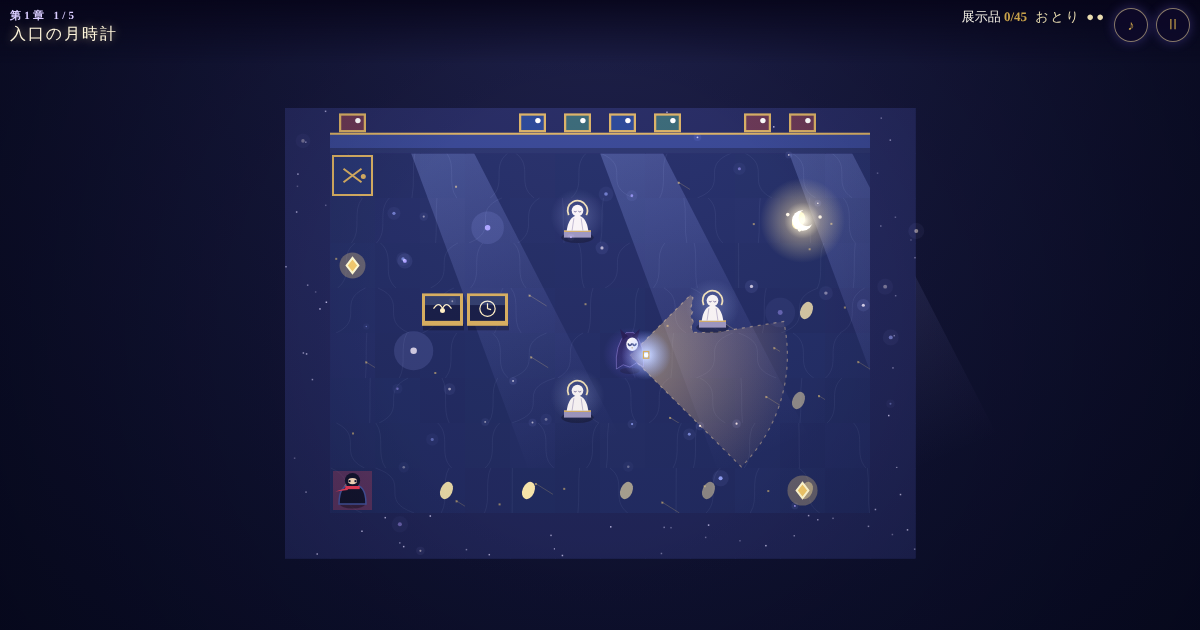
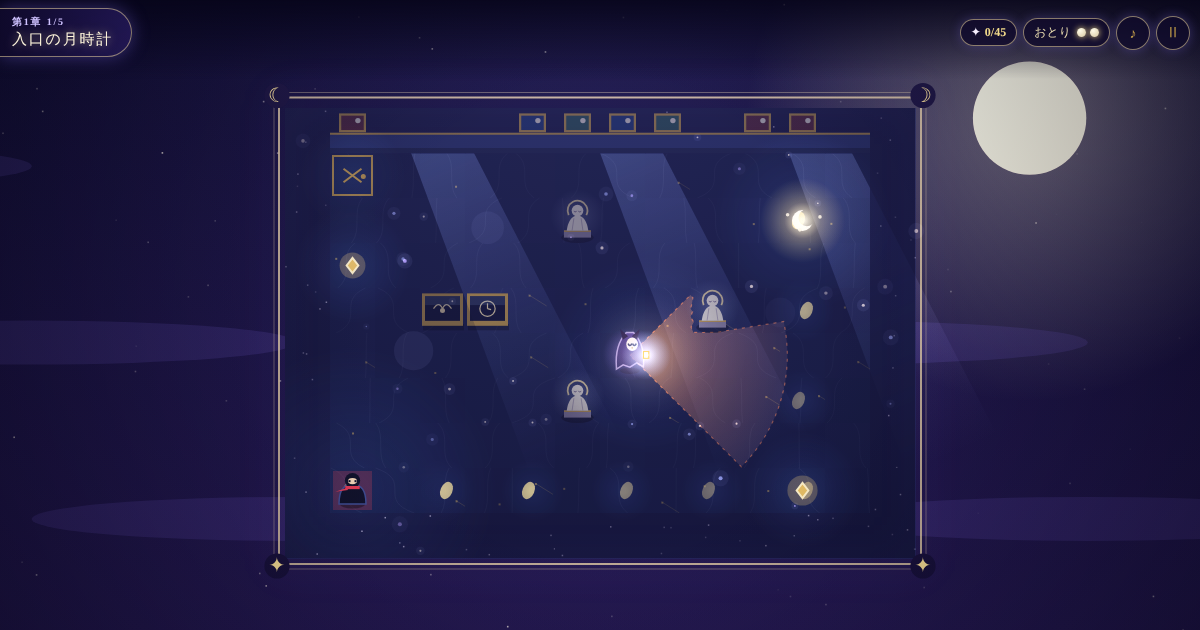
[FIX] 月光美術館と十二の怪盗：プレイ画面を刷新（館の明かり・星空と月・飾り枠・札型の表示）
Claude-Session: https://claude.ai/code/session_01MokQntdd3n6K58QCqVKUx1

diff --git a/site/games/moonlight-heist/game.js b/site/games/moonlight-heist/game.js
@@ -217,7 +217,7 @@ function startRoom(ri, ph) {
   newRun();
   mode = 'play'; paused = false;
   const c = CHAPTERS[roomChapter(ri)];
-  $('hChap').textContent = `${c.sub} ${ri - c.rooms[0] + 1}/5`;
+  $('hChap').textContent = W < 480 ? `☾ ${c.sub}　${ri - c.rooms[0] + 1}/5` : `☾ ${c.sub}・${c.name}　${ri - c.rooms[0] + 1}/5`;
   $('hRoom').textContent = ROOMS[ri].name;
   hideScreen();
   tutorialT = 0;
@@ -236,7 +236,7 @@ function newRun() {
 }
 function updateHud() {
   $('hItems').textContent = `${total() + (run ? run.items.filter((i) => i.got && !(save.rooms[roomIdx]?.opts || []).includes(i.idx) && !(i.kind === 'key' && save.rooms[roomIdx])).length : 0)}/45`;
-  $('hDecoy').textContent = run ? 'おとり ' + '●'.repeat(run.decoys) + '○'.repeat(CFG.decoyCount - run.decoys) : '';
+  $('hDecoy').innerHTML = run ? `<i>おとり</i>${'<em class="st"></em>'.repeat(run.decoys)}${'<em class="st off"></em>'.repeat(CFG.decoyCount - run.decoys)}` : '';
   if (run) $('collectFill').style.height = `${(run.items.filter((i) => i.got).length / run.items.length) * 100}%`;
 }
 let toastTimer = 0;
@@ -366,7 +366,7 @@ function resize() {
   DPR = Math.min(2, devicePixelRatio || 1);
   W = innerWidth; H = innerHeight;
   cv.width = Math.round(W * DPR); cv.height = Math.round(H * DPR);
-  TS = W < 700 ? Math.max(30, Math.min(44, Math.floor(W / 10.5))) : Math.max(36, Math.min(56, Math.floor(Math.min(W / 17, (H - 90) / 12))));
+  TS = W < 700 ? Math.max(32, Math.min(48, Math.floor(Math.min(W / 9.5, (H - 260) / 11)))) : Math.max(36, Math.min(56, Math.floor(Math.min(W / 17, (H - 90) / 12))));
 }
 addEventListener('resize', resize);
 
@@ -575,18 +575,18 @@ function drawGuard(g, t) {
   ctx.fillStyle = 'rgba(0,0,0,0.3)'; ctx.beginPath(); ctx.ellipse(cx, wy(g.y) + s * 0.34, s * 0.22, s * 0.07, 0, 0, 7); ctx.fill();
   // ぼんやりした気配
   const au = ctx.createRadialGradient(cx, cy, s * 0.1, cx, cy, s * 0.6);
-  au.addColorStop(0, chase ? 'rgba(255,80,110,0.28)' : 'rgba(150,120,255,0.25)'); au.addColorStop(1, 'rgba(120,100,255,0)');
+  au.addColorStop(0, chase ? 'rgba(255,80,110,0.4)' : 'rgba(190,160,255,0.42)'); au.addColorStop(1, 'rgba(120,100,255,0)');
   ctx.fillStyle = au; ctx.fillRect(cx - s, cy - s, s * 2, s * 2);
   // 衣（すそがゆらぐ）
   const body = ctx.createLinearGradient(cx, cy - s * 0.45, cx, cy + s * 0.35);
-  body.addColorStop(0, '#2a1f55'); body.addColorStop(1, 'rgba(26,18,60,0.15)');
+  body.addColorStop(0, '#4a3a90'); body.addColorStop(1, 'rgba(40,28,90,0.25)');
   ctx.fillStyle = body; ctx.beginPath();
   ctx.moveTo(cx - s * 0.08, cy - s * 0.48);
   ctx.quadraticCurveTo(cx - s * 0.34, cy - s * 0.2, cx - s * 0.3, cy + s * 0.3);
   for (let k = 0; k <= 4; k++) { const xx = cx - s * 0.3 + k * s * 0.15, yy = cy + s * 0.3 + (k % 2 ? -s * 0.08 : 0) + (rm ? 0 : Math.sin(t * 6 + k + g.x) * s * 0.03); ctx.lineTo(xx, yy); }
   ctx.quadraticCurveTo(cx + s * 0.34, cy - s * 0.2, cx + s * 0.08, cy - s * 0.48);
   ctx.closePath(); ctx.fill();
-  ctx.strokeStyle = 'rgba(190,170,255,0.35)'; ctx.lineWidth = 1; ctx.stroke();
+  ctx.strokeStyle = 'rgba(220,200,255,0.75)'; ctx.lineWidth = 1.5; ctx.stroke();
   // 頭巾の角
   ctx.fillStyle = '#1c1440'; ctx.beginPath(); ctx.moveTo(cx - s * 0.16, cy - s * 0.32); ctx.lineTo(cx - s * 0.22, cy - s * 0.56); ctx.lineTo(cx - s * 0.04, cy - s * 0.4); ctx.fill();
   ctx.beginPath(); ctx.moveTo(cx + s * 0.16, cy - s * 0.32); ctx.lineTo(cx + s * 0.22, cy - s * 0.56); ctx.lineTo(cx + s * 0.04, cy - s * 0.4); ctx.fill();
@@ -647,17 +647,57 @@ function drawLights(room, t) {
 }
 
 let dark = null, dctx = null;
-function drawDarkness(room) {
+// 館の明かり：全体を夜の暗さにして、ルウのまわり・夜守のランタンと視線・かけら・月光だけを照らす
+function drawLighting(room, ms, t) {
   if (!dark || dark.width !== cv.width || dark.height !== cv.height) { dark = document.createElement('canvas'); dark.width = cv.width; dark.height = cv.height; dctx = dark.getContext('2d'); }
   dctx.setTransform(1, 0, 0, 1, 0, 0); dctx.globalCompositeOperation = 'source-over'; dctx.clearRect(0, 0, dark.width, dark.height);
-  dctx.fillStyle = 'rgba(2,4,20,0.72)'; dctx.fillRect(0, 0, dark.width, dark.height);
+  dctx.fillStyle = room.dark ? 'rgba(3,2,16,0.78)' : 'rgba(6,3,24,0.5)'; dctx.fillRect(0, 0, dark.width, dark.height);
   dctx.setTransform(DPR, 0, 0, DPR, 0, 0); dctx.globalCompositeOperation = 'destination-out';
   const hole = (x, y, r, a) => { const g = dctx.createRadialGradient(x, y, r * 0.1, x, y, r); g.addColorStop(0, `rgba(0,0,0,${a})`); g.addColorStop(1, 'rgba(0,0,0,0)'); dctx.fillStyle = g; dctx.beginPath(); dctx.arc(x, y, r, 0, 7); dctx.fill(); };
+  // 窓からの月光の帯
+  if (!room.dark) for (let i = 0; i < 3; i++) {
+    const bx = wx(room.rows[0].length * (0.2 + i * 0.3)), by = wy(1);
+    const g = dctx.createLinearGradient(bx, by, bx + TS * 3, by + TS * 7); g.addColorStop(0, 'rgba(0,0,0,0.55)'); g.addColorStop(1, 'rgba(0,0,0,0)');
+    dctx.fillStyle = g; dctx.beginPath(); dctx.moveTo(bx, by); dctx.lineTo(bx + TS * 1.4, by); dctx.lineTo(bx + TS * 5, by + TS * 7); dctx.lineTo(bx + TS * 2.6, by + TS * 7); dctx.fill();
+  }
   hole(wx(run.p.x), wy(run.p.y), TS * 3.2, 0.95);
-  for (const g of run.guards) hole(wx(g.x), wy(g.y), TS * 2.5, 0.9);
+  for (const g of run.guards) {
+    hole(wx(g.x + g.fx * 0.36), wy(g.y + g.fy * 0.36), TS * 2.2, 0.9);
+    if (save.opt.showView) { const pts = coneRays(g, ms, room); dctx.fillStyle = 'rgba(0,0,0,0.55)'; dctx.beginPath(); pts.forEach(([x, y], k) => (k ? dctx.lineTo(wx(x), wy(y)) : dctx.moveTo(wx(x), wy(y)))); dctx.closePath(); dctx.fill(); }
+  }
   for (const l of room.lights || []) { const lp = L.lightPos(l, run.t); hole(wx(lp.x), wy(lp.y), l.r * TS * 2.2, 1); }
-  for (const it of run.items) if (!it.got) hole(wx(it.x + 0.5), wy(it.y + 0.5), TS * 1.6, 0.8);
-  ctx.setTransform(1, 0, 0, 1, 0, 0); ctx.drawImage(dark, 0, 0); ctx.setTransform(DPR, 0, 0, DPR, 0, 0);
+  for (const it of run.items) if (!it.got) hole(wx(it.x + 0.5), wy(it.y + 0.5), TS * (it.kind === 'key' ? 2 : 1.3), 0.85);
+  const info = L.roomInfo(room);
+  if (info.exit) hole(wx(info.exit[0] + 0.5), wy(info.exit[1] + 0.5), TS * (run.exitOpen ? 2.2 : 1.2), run.exitOpen ? 0.9 : 0.5);
+  if (roomIdx === 0 || room.pedestals) L.hintTrail(room, phase).forEach(([x, y], k) => { if (k % 2 === 0) hole(wx(x + 0.5), wy(y + 0.5), TS * 0.7, 0.6); });
+  ctx.save(); ctx.beginPath(); ctx.rect(wx(0), wy(0), room.rows[0].length * TS, room.rows.length * TS); ctx.clip();
+  ctx.setTransform(1, 0, 0, 1, 0, 0); ctx.drawImage(dark, 0, 0); ctx.restore(); ctx.setTransform(DPR, 0, 0, DPR, 0, 0);
+  // ランタンのあたたかい灯
+  ctx.save(); ctx.globalCompositeOperation = 'lighter';
+  for (const g of run.guards) { const lx = wx(g.x + g.fx * 0.36), ly = wy(g.y + g.fy * 0.36); const gg = ctx.createRadialGradient(lx, ly, 2, lx, ly, TS * 1.6); gg.addColorStop(0, g.mode === 'chase' ? 'rgba(255,80,100,0.35)' : 'rgba(255,200,120,0.28)'); gg.addColorStop(1, 'rgba(0,0,0,0)'); ctx.fillStyle = gg; ctx.fillRect(lx - TS * 2, ly - TS * 2, TS * 4, TS * 4); }
+  ctx.restore(); void t;
+}
+// 部屋の外：星空と月。部屋のふちは金の線と光で縁取る
+function drawPlaySky(room, t) {
+  const g = ctx.createLinearGradient(0, 0, 0, H); g.addColorStop(0, '#0a0828'); g.addColorStop(1, '#1e1446'); ctx.fillStyle = g; ctx.fillRect(0, 0, W, H);
+  const ox = -cam.x * 0.08, oy = -cam.y * 0.08;
+  for (let i = 0; i < 140; i++) { const a = 0.25 + 0.5 * (0.5 + 0.5 * Math.sin(t * 1.3 + i)); ctx.fillStyle = `rgba(255,248,225,${a * hash(i, 4, 3)})`; ctx.fillRect(((hash(i, 1, 3) * W * 1.3 + ox) % (W * 1.3) + W * 1.3) % (W * 1.3) - W * 0.15, ((hash(i, 2, 3) * H * 1.3 + oy) % (H * 1.3) + H * 1.3) % (H * 1.3) - H * 0.15, 1.6, 1.6); }
+  const mx = W * 0.82 + ox * 2, my = H * 0.16 + oy * 2, mr = Math.min(W, H) * 0.09;
+  const mg = ctx.createRadialGradient(mx, my, mr * 0.3, mx, my, mr * 5); mg.addColorStop(0, 'rgba(255,246,215,0.35)'); mg.addColorStop(1, 'rgba(255,246,215,0)'); ctx.fillStyle = mg; ctx.fillRect(mx - mr * 5, my - mr * 5, mr * 10, mr * 10);
+  ctx.fillStyle = '#fbf3da'; ctx.beginPath(); ctx.arc(mx, my, mr, 0, 7); ctx.fill();
+  // 雲
+  ctx.fillStyle = 'rgba(110,90,200,0.18)';
+  for (let i = 0; i < 6; i++) { const x = ((i * 0.22 + t * 0.006) % 1.4 - 0.2) * W, y = H * (0.25 + (i % 3) * 0.28) + oy; ctx.beginPath(); ctx.ellipse(x, y, W * 0.22, H * 0.035, 0, 0, 7); ctx.fill(); }
+  void room;
+}
+function drawRoomFrame(room) {
+  const x0 = wx(0), y0 = wy(0) - TS * 0.1, w = room.rows[0].length * TS, h = room.rows.length * TS + TS * 0.1;
+  ctx.save();
+  ctx.shadowColor = 'rgba(160,140,255,0.6)'; ctx.shadowBlur = 40; ctx.strokeStyle = 'rgba(236,214,160,0.75)'; ctx.lineWidth = 2; ctx.strokeRect(x0 - 6, y0 - 6, w + 12, h + 12);
+  ctx.shadowBlur = 0; ctx.strokeStyle = 'rgba(236,214,160,0.35)'; ctx.lineWidth = 1; ctx.strokeRect(x0 - 11, y0 - 11, w + 22, h + 22);
+  ctx.fillStyle = '#f1d98a'; ctx.font = `${Math.round(TS * 0.45)}px serif`; ctx.textAlign = 'center'; ctx.textBaseline = 'middle';
+  [[x0 - 8, y0 - 8, '☾'], [x0 + w + 8, y0 - 8, '☽'], [x0 - 8, y0 + h + 8, '✦'], [x0 + w + 8, y0 + h + 8, '✦']].forEach(([x, y, c]) => { ctx.fillStyle = '#120c30'; ctx.beginPath(); ctx.arc(x, y, TS * 0.28, 0, 7); ctx.fill(); ctx.fillStyle = '#f1d98a'; ctx.fillText(c, x, y + 1); });
+  ctx.textBaseline = 'alphabetic'; ctx.restore();
 }
 
 // ---------- 幻想の演出：記憶の光の粒・足あとの光・かけらの散光 ----------
@@ -675,8 +715,8 @@ function drawMagic(room, t, dt) {
     const a = 0.25 + 0.35 * (0.5 + 0.5 * Math.sin(t * 2 + m.ph));
     const px = wx(m.x), py = wy(m.y);
     ctx.fillStyle = m.hue > 0.6 ? `rgba(255,230,170,${a})` : m.hue > 0.3 ? `rgba(190,200,255,${a})` : `rgba(220,180,255,${a})`;
-    ctx.beginPath(); ctx.arc(px, py, m.r, 0, 7); ctx.fill();
-    ctx.fillStyle = `rgba(200,200,255,${a * (m.big ? 0.16 : 0.1)})`; ctx.beginPath(); ctx.arc(px, py, m.r * (m.big ? 6 : 4), 0, 7); ctx.fill();
+    if (!m.big) { ctx.beginPath(); ctx.arc(px, py, m.r, 0, 7); ctx.fill(); }
+    ctx.fillStyle = `rgba(200,200,255,${a * (m.big ? 0.09 : 0.1)})`; ctx.beginPath(); ctx.arc(px, py, m.r * (m.big ? 6 : 4), 0, 7); ctx.fill();
   }
   sparks = sparks.filter((p) => (p.life -= dt * 0.9) > 0);
   for (const p of sparks) { p.x += p.vx * dt; p.y += p.vy * dt; p.vy += 0.6 * dt; ctx.fillStyle = `rgba(${p.col},${p.life})`; ctx.beginPath(); ctx.arc(wx(p.x), wy(p.y), 1.2 + p.life * 1.8, 0, 7); ctx.fill(); }
@@ -688,6 +728,7 @@ function render(t) {
   ctx.setTransform(DPR, 0, 0, DPR, 0, 0);
   ctx.fillStyle = '#070b22'; ctx.fillRect(0, 0, W, H);
   if (!run) { drawBackdrop(t); return; }
+  drawPlaySky(run.room, t);
   const room = run.room, ch = CHAPTERS[roomChapter(roomIdx)];
   ctx.save();
   if (shake > 0) ctx.translate((Math.random() - 0.5) * 6 * shake * 4, (Math.random() - 0.5) * 6 * shake * 4);
@@ -713,9 +754,9 @@ function render(t) {
     const pts = coneRays(g, ms, room);
     const chase = g.mode === 'chase';
     const grad = ctx.createRadialGradient(wx(g.x), wy(g.y), 4, wx(g.x), wy(g.y), (run.room.view || CFG.viewDist) * TS);
-    grad.addColorStop(0, chase ? 'rgba(255,90,110,0.5)' : 'rgba(255,214,130,0.45)'); grad.addColorStop(1, chase ? 'rgba(255,90,110,0.08)' : 'rgba(255,190,110,0.07)');
+    grad.addColorStop(0, chase ? 'rgba(255,90,110,0.55)' : 'rgba(255,165,90,0.5)'); grad.addColorStop(1, chase ? 'rgba(255,90,110,0.1)' : 'rgba(255,130,80,0.1)');
     ctx.fillStyle = grad; ctx.beginPath(); pts.forEach(([x, y], i) => (i ? ctx.lineTo(wx(x), wy(y)) : ctx.moveTo(wx(x), wy(y)))); ctx.closePath(); ctx.fill();
-    ctx.strokeStyle = chase ? 'rgba(255,110,130,0.55)' : 'rgba(255,220,150,0.4)'; ctx.lineWidth = 1.2; ctx.setLineDash([3, 5]); ctx.stroke(); ctx.setLineDash([]);
+    ctx.strokeStyle = chase ? 'rgba(255,110,130,0.75)' : 'rgba(255,140,90,0.7)'; ctx.lineWidth = 1.2; ctx.setLineDash([3, 5]); ctx.stroke(); ctx.setLineDash([]);
   }
   // 音の輪・おとり
   for (const n of run.noise) { ctx.strokeStyle = `rgba(200,225,255,${0.5 * (1 - n.t / 0.8)})`; ctx.lineWidth = 2; ctx.beginPath(); ctx.arc(wx(n.x), wy(n.y), n.r * TS * Math.min(1, n.t / 0.5), 0, 7); ctx.stroke(); }
@@ -759,7 +800,8 @@ function render(t) {
     if (cells.length) { const cx = wx(cells[0][0] + 0.5), cy = wy((cells[0][1] + cells[1][1]) / 2 + 1), r = TS * 0.95; drawPlanet(cx, cy, r, t); }
   }
   drawLights(room, t);
-  if (room.dark) drawDarkness(room);
+  drawLighting(room, ms, t);
+  drawRoomFrame(room);
   // ルウの足もとに光の粒
   if (Math.hypot(run.p.vx, run.p.vy) > 0.3 && (trailT -= rdt) <= 0 && !reduceMotion()) { trailT = 0.07; sparks.push({ x: run.p.x + (Math.random() - 0.5) * 0.3, y: run.p.y + 0.25, vx: (Math.random() - 0.5) * 0.3, vy: -0.4, life: 0.7, col: '170,200,255' }); }
   drawMagic(room, t, rdt);

diff --git a/site/games/moonlight-heist/style.css b/site/games/moonlight-heist/style.css
@@ -182,3 +182,17 @@ body.radio-on #toast{top:146px}
 body.radio-on #toast{top:160px}
 #collect{top:44px;width:28px;height:28px}
 .memgot{color:#f1d98a!important;font-size:14px!important;text-shadow:0 0 10px rgba(241,217,138,.6)}
+/* プレイ中の札・チップ */
+#hud{padding:max(8px,env(safe-area-inset-top)) 10px 22px 0}
+.hud-l{padding:6px 18px 7px 12px;background:linear-gradient(90deg,rgba(16,10,44,.92),rgba(40,28,96,.75));border:1px solid var(--line);border-left:0;border-radius:0 999px 999px 0;box-shadow:0 0 18px rgba(140,120,255,.35)}
+.hud-l b{font-size:10px;letter-spacing:.18em;color:#cfc2ff}
+.hud-l span{font-size:15px}
+.hud-r{align-items:center;gap:6px}
+.chip{display:inline-flex;align-items:center;gap:4px;padding:5px 10px;border-radius:999px;border:1px solid var(--line);background:rgba(16,10,44,.75);font-size:12px;color:#f6efff;box-shadow:0 0 12px rgba(140,120,255,.25)}
+.chip output{color:#f1d98a;font-weight:700}
+#hDecoy{letter-spacing:0}
+#hDecoy i{font-style:normal;margin-right:2px}
+.st{display:inline-block;width:9px;height:9px;border-radius:50%;background:radial-gradient(circle at 35% 30%,#fffbe8,#d8c8a0);box-shadow:0 0 6px #f1d98a}
+.st.off{background:none;border:1px solid #6a5a9a;box-shadow:none}
+@media (max-width:480px){.hud-l b{font-size:9px;letter-spacing:.08em}.hud-l span{font-size:13px}.chip{padding:4px 7px;font-size:11px}.hud-r button{width:30px;height:30px}}
+#collect{display:none!important}

diff --git a/site/games/moonlight-heist/index.html b/site/games/moonlight-heist/index.html
@@ -21,7 +21,7 @@
     <canvas id="cv" aria-label="美術館の見下ろし画面"></canvas>
     <div id="hud" hidden>
       <div class="hud-l"><b id="hChap"></b><span id="hRoom"></span></div>
-      <div class="hud-r"><span>展示品 <output id="hItems">0/45</output></span><span id="hDecoy" aria-label="おとりの残り"></span><button id="bMute" type="button" aria-label="音">♪</button><button id="bPause" type="button" aria-label="ポーズ">Ⅱ</button></div>
+      <div class="hud-r"><span class="chip">✦ <output id="hItems">0/45</output></span><span id="hDecoy" class="chip" aria-label="おとりの残り"></span><button id="bMute" type="button" aria-label="音">♪</button><button id="bPause" type="button" aria-label="ポーズ">Ⅱ</button></div>
     </div>
     <div id="gaugeBar" hidden><i id="gaugeFill"></i></div>
     <div id="collect" hidden><i id="collectFill"></i></div>
